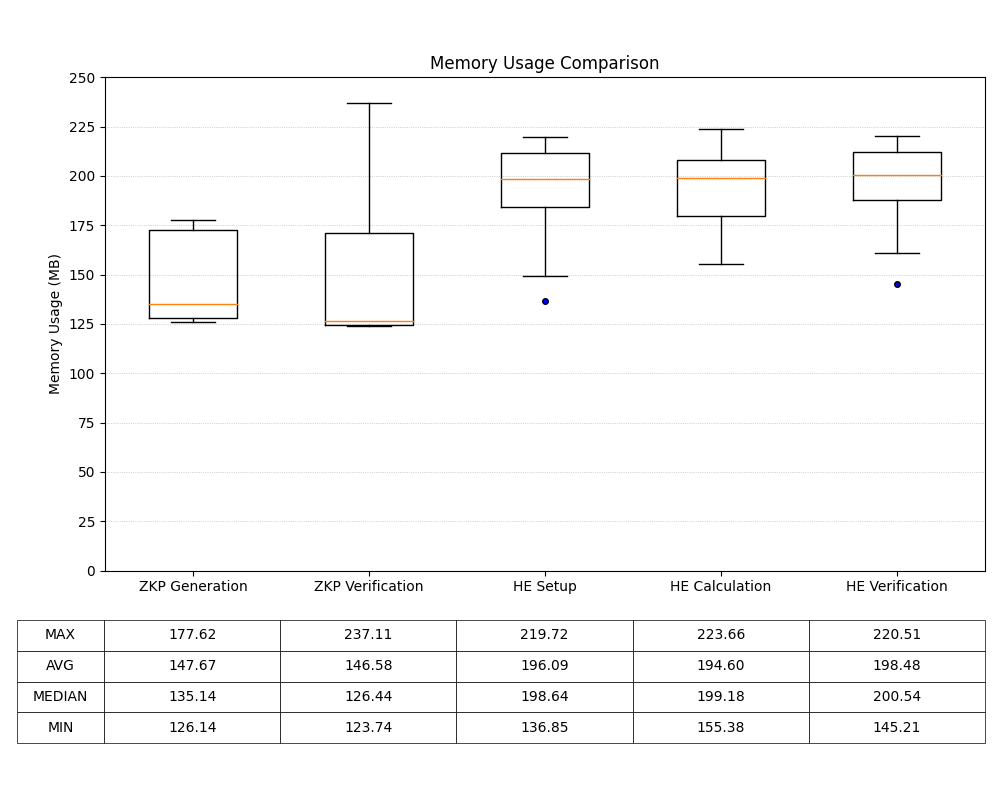
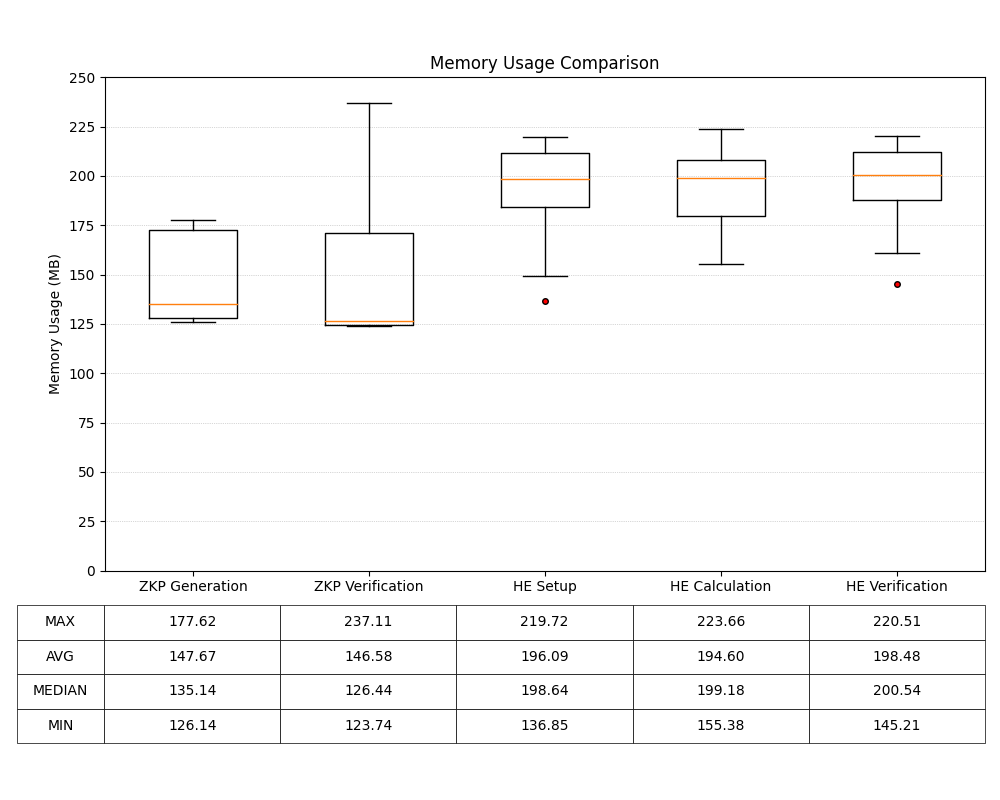
improve graph and table design

diff --git a/evaluation/generateGraphs.py b/evaluation/generateGraphs.py
@@ -32,14 +32,14 @@ def filter_non_zero(data):
 def plot_comparison(data, labels, title, y_label, filename):
     fig, ax = plt.subplots(figsize=(10, 8))
 
-    # Adjust flierprops to fill the outlier dots with blue and make them smaller
-    flierprops = dict(marker='o', color='blue', markersize=4, markerfacecolor='blue')
+    # Fill the outlier dots with blue and make them smaller
+    flierprops = dict(marker='o', color='red', markersize=4, markerfacecolor='red')
     ax.boxplot(data, labels=labels, flierprops=flierprops)
 
     ax.set_title(title)
     ax.set_ylabel(y_label)
     ax.set_ylim(bottom=0)
-    ax.grid(axis='y', linestyle=':', linewidth=0.5)  # Add dotted horizontal grid lines
+    ax.grid(axis='y', linestyle=':', linewidth=0.5)  # add dotted horizontal grid lines
 
     # Increase the number of y-axis ticks
     y_ticks = ax.get_yticks()
@@ -56,7 +56,7 @@ def plot_comparison(data, labels, title, y_label, filename):
     med_vals = [np.median(d) for d in data]
     min_vals = [np.min(d) for d in data]
 
-    # Create the table
+    # Create table
     table_data = [
         ["MAX"] + [f"{val:.2f}" for val in max_vals],
         ["AVG"] + [f"{val:.2f}" for val in avg_vals],
@@ -65,10 +65,10 @@ def plot_comparison(data, labels, title, y_label, filename):
     ]
 
     n_columns = len(labels) + 1
-    col_widths = [0.09] + [0.91 / (n_columns - 1)] * (n_columns - 1)  # Adjust column widths
+    col_widths = [0.09] + [0.91 / (n_columns - 1)] * (n_columns - 1)  # adjust column widths
 
     table = plt.table(cellText=table_data, loc='bottom', cellLoc='center',
-                      colWidths=col_widths, bbox=[-0.1, -0.35, 1.1, 0.28])
+                      colWidths=col_widths, bbox=[-0.1, -0.35, 1.1, 0.28])  # left, bottom, right, top
     table.auto_set_font_size(False)
     table.set_fontsize(10)
 
@@ -92,23 +92,23 @@ plot_comparison(
     'CPU Usage (%)',
     'cpu_usage_comparison'
 )
-#
-# # Memory Usage Comparison
-# plot_comparison(
-#     [new_zkp_metrics['GenMemory'], new_zkp_metrics['VerMemory'], new_he_metrics['SetupMemory'],
-#      new_he_metrics['CalculationMemory'], new_he_metrics['VerificationMemory']],
-#     x_labels,
-#     'Memory Usage Comparison',
-#     'Memory Usage (MB)',
-#     'memory_usage_comparison'
-# )
-#
-# # Duration Comparison
-# plot_comparison(
-#     [new_zkp_metrics['GenDuration'], new_zkp_metrics['VerDuration'], new_he_metrics['SetupDuration'],
-#      new_he_metrics['CalculationDuration'], new_he_metrics['VerificationDuration']],
-#     x_labels,
-#     'Duration Comparison',
-#     'Duration (ms)',
-#     'duration_comparison'
-# )
+
+# Memory Usage Comparison
+plot_comparison(
+    [new_zkp_metrics['GenMemory'], new_zkp_metrics['VerMemory'], new_he_metrics['SetupMemory'],
+     new_he_metrics['CalculationMemory'], new_he_metrics['VerificationMemory']],
+    x_labels,
+    'Memory Usage Comparison',
+    'Memory Usage (MB)',
+    'memory_usage_comparison'
+)
+
+# Duration Comparison
+plot_comparison(
+    [new_zkp_metrics['GenDuration'], new_zkp_metrics['VerDuration'], new_he_metrics['SetupDuration'],
+     new_he_metrics['CalculationDuration'], new_he_metrics['VerificationDuration']],
+    x_labels,
+    'Duration Comparison',
+    'Duration (ms)',
+    'duration_comparison'
+)
